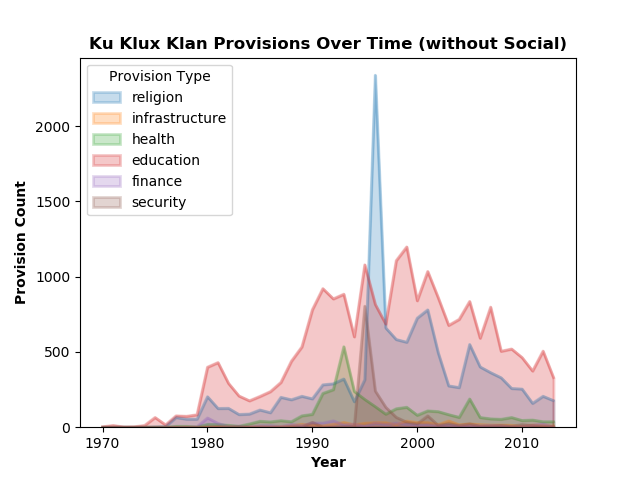
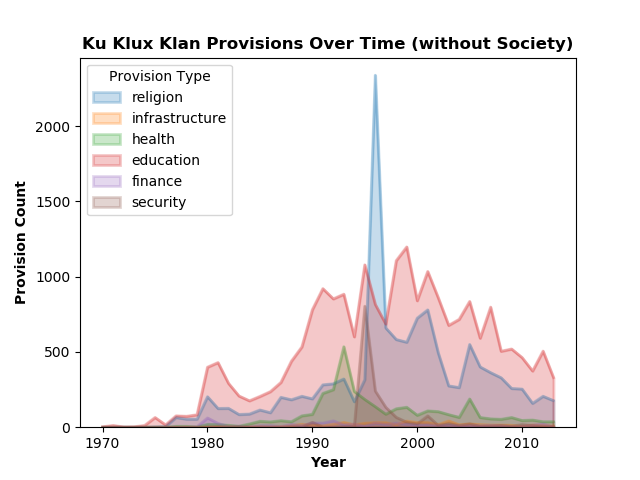
made formatting changes

Changed region(s): [[0.125, 0.0625, 0.9062, 0.125]]

diff --git a/FinalCode.py b/FinalCode.py
@@ -102,9 +102,7 @@ def count_countries(df):
     Counting the number of country instances, across years
     df: original pandas df
     '''
-    # print('Doing it')
     df_base_count = df['year'].groupby(df['base']).count()
-    # print(df_base_count.head())
     df_base_count = df_base_count.reset_index()
     df_base_count.rename(columns ={'year':'count'}, inplace = True)
     df_base_count.rename(columns ={'base':'name'}, inplace = True)
@@ -227,13 +225,10 @@ def multi_line_plot(df_sum_list, legend_list, title, xlab, ylab, save_bool, plot
         line.set_label(item)
     plt.legend(title=legend_title, loc='upper left')
     plt.title(title, weight='bold')
-    if xrestrict_lower > 0 & xrestrict_upper > 0:
+    if xrestrict_upper > 0:
         plt.xlim(xrestrict_lower, xrestrict_upper)
     if yrestrict_upper > 0:
         plt.ylim(0, yrestrict_upper)
-    # if save_as == 'Ku Klux Klan Provisions Over Time':
-    # if ylim == 1:
-    #     plt.ylim(0,20000)
     plt.xlabel(xlab, weight='bold')
     plt.ylabel(ylab, weight='bold')
     if save_bool == 1:
@@ -256,7 +251,7 @@ if __name__ == '__main__':
     # print(prov_over_time(1,1))
     # print(make_pie(1,0))
     # print(make_world(1,0))
-    print(clean_then_plot_heatmap(df))
+    # print(clean_then_plot_heatmap(df))
     # print(US_groups(df))
 
     '''Plotting three line graphs in one space'''
@@ -277,5 +272,6 @@ if __name__ == '__main__':
 
     '''Plot without Society'''
     make_sums_mult_vars_no_soc = sum_mult_vars(make_separate_dfs, 'year', prov_list_no_soc)
-    # print(multi_line_plot(make_sums_mult_vars_no_soc, prov_list_no_soc, 'Ku Klux Klan Provisions Over Time (without Social)', 'Year', 'Provision Count', 1, 0, 'KKK_prov_type_over_time_no_soc', 'Provision Type'))
-    # print(multi_line_plot(make_sums_mult_vars_no_soc, prov_list_no_soc, 'Ku Klux Klan Provisions During the 1990s (without Social)', 'Year', 'Provision Count', 1, 0, 'KKK_prov_type_over_time_no_soc_90s', 'Provision Type', 1990, 1999, 0, 0))
+    # print(multi_line_plot(make_sums_mult_vars_no_soc, prov_list_no_soc, 'Ku Klux Klan Provisions Over Time (without Society)', 'Year', 'Provision Count', 1, 0, 'KKK_prov_type_over_time_no_soc', 'Provision Type'))
+    print(multi_line_plot(make_sums_mult_vars_no_soc, prov_list_no_soc, 'Ku Klux Klan Provisions During the 1990s (without Society)', 'Year', 'Provision Count', 1, 0, 'KKK_prov_type_over_time_no_soc_90s', 'Provision Type', xrestrict_lower=1990, xrestrict_upper=1999, yrestrict_upper=0))
+    # def multi_line_plot(df_sum_list, legend_list, title, xlab, ylab, save_bool, plot_bool, save_as, legend_title, xrestrict_lower=0, xrestrict_upper=0, yrestrict_upper=0):  ### May need to add save_as = 0 , plot_bool = 0 to make sure you dont get an error

diff --git a/README.md b/README.md
@@ -3,29 +3,32 @@
 
 
 ## Background
-One Earth Future(OEF) is non-profit in Broomfield, CO, whose mission is to foster sustainable peace by building effective networks and resilient societies in fragile and post-conflict environments around the world. OEF has a research department aiming to produce actionable, empirical research that speaks to how a world without war can be achieved. One line of research at OEF focuses on the role of **terrorist and insurgent groups** (heretofore referred to as **“non-state actors"**) in times of conflict. In particular, OEF studies non-state actors’ use of social services during times of conflict. According to OEF researchers, non-violent activities of violent groups are correlated with many important outcomes and enahnce our understanding of the internal functions of terrorist organizations. For instance, some violent groups seek legitimacy and international support through service provision.
+
+![OEF](OEF.jpg) ![OEFR](OEFR.jpg)
+
+
+One Earth Future(OEF) is non-profit in Broomfield, CO, whose mission is to foster sustainable peace by building effective networks and resilient societies in fragile and post-conflict environments around the world. OEF has a research department (OEF Research) aiming to produce actionable, empirical research that speaks to how a world without war can be achieved. One line of research at OEF focuses on the role of terrorist and insurgent groups (heretofore referred to as “non-state actors") in times of conflict. In particular, OEF studies non-state actors’ use of social services during times of conflict. According to OEF researchers, non-violent activities of violent groups are correlated with many important outcomes and enhance our understanding of the internal functions of terrorist organizations. For instance, some violent groups seek legitimacy and international support through service provision (see Heger & Jung, 2017).
 
 ## Data Description
-For this project, I used OEF’s Terrorist and Insurgent Organizations’ Service Provision across time (TIOS 2.0) dataset for this project. The TIOS 2.0 dataset provides indicators associated with whether and how more than 400 violent non-state actors provide public goods and services across more than four decades (1969–2013). The underlying motivating assumption is that service-providing groups will have, on average, more stories mentioning service provision compared with groups that provide fewer or no services. To the best of OEF’s knowledge, this represents the widest coverage across both time and groups for this type of data.
+For this project, I used OEF’s Terrorist and Insurgent Organizations’ Service Provision across time (TIOS 2.0) dataset for this project (for more information, see Heger, Jung, and Wagstaff, 2018). The TIOS 2.0 dataset provides indicators associated with whether and how more than 400 violent non-state actors provide public goods and services across more than four decades (1969–2013). Accoring to OEF researchers, an underlying assumption of these data is that service-providing groups will have, on average, more stories mentioning service provision compared with groups that provide fewer or no services (Heger & Jung, 2017). To the best of OEF’s knowledge, this dataset represents the widest coverage across both time and groups for this type of data.
 
-Data were collected from a predetermined list of approximately 400 non-state groups (detailed in Cronin, 2011). **Data were pulled from all English language print news coverage available on LexisNexis.** As of 2006, LexisNexis has the world's largest electronic database for legal and public-records related information. For each group in the sample, OEF searched within new stories for words and phrases that correlate with service provision (see Describing the Data for details).
+Data were collected from a predetermined list of approximately 400 non-state groups (detailed in Cronin, 2011). Data were pulled from all English language print news coverage available on LexisNexis. As of 2006, LexisNexis has the world's largest electronic database for legal and public-records related information. For each group in the sample, OEF searched within new stories for words and phrases that correlate with service provision (see Describing the Data for details).
 
 #### **From the TIOS 2.0 codebook:**
 
-_"**Each observation in the dataset is a group-year.** There are, broadly speaking, four sets of variables. The first are the raw counts of keywords. The values for these variables equal the number of times that keyword was mentioned in all of the .txt files for that group-year. The second set of variables are manipulations of the raw counts. These variables include the combinations of the raw counts into sectors as well as taking the mean of all within-sector variables. These give a broader sense of the types of services each group provides each year. The third set of variables provide a sense of coverage using two metrics. The first of these is the word count for each group-year. The second is the article count for each group-year. The last set of variables includes the identifiers for each observation and includes variables suited to merging these data with other commonly used conflict datasets (described in Capstone 2 Goals section)."_
+_"Each observation in the dataset is a group-year. There are, broadly speaking, four sets of variables. The first are the raw counts of keywords. The values for these variables equal the number of times that keyword was mentioned in all of the .txt files for that group-year. The second set of variables are manipulations of the raw counts. These variables include the combinations of the raw counts into sectors as well as taking the mean of all within-sector variables. These give a broader sense of the types of services each group provides each year. The third set of variables provide a sense of coverage using two metrics. The first of these is the word count for each group-year. The second is the article count for each group-year. The last set of variables includes the identifiers for each observation and includes variables suited to merging these data with other commonly used conflict datasets."_
 
-## Goals
-+ Explore the data, with an eye toward future potential research questions that will use inferential statistics/model testing. This will be accomplished via merging with other datasets (there are identifiers in the dataset).
+## Capstone1 Goals
 + Enhance my visualization skills.
++ Explore the TIOS 2.0 data, with an eye toward future potential research questions that will use inferential statistics/model testing. This could be accomplished by merging the TIOS 2.0 with other datasets (e.g., the Global Terrorism Database).
 
-## Describing the data
-N = 6659
+## Describing the Data
+N = 6659 group-years
 
 Exploration consisted of a few key factors:
 + **Time** (1969-2013)
 + **Groups** (e.g., Taliban, Ku Klux Klan)
-  * Groups within the U.S.
-+ **Base** (country in which group is based)
++ **Base** (country in which group is located)
 + **Provisions** (types and counts):
   + Religion: church, mosque
   + Infrastructure: reconstruction, trash
@@ -36,27 +39,29 @@ Exploration consisted of a few key factors:
   + Society: cultural, sport
 
 ## Data Visualization
-I created an area graph of group prevalence over time. This graph represents a count of unique organization names in the dataset for each year (see Figure 1).
+I first created an area graph of group prevalence over time. Figure 1 represents a count of unique organization names in the dataset for each year.
 
-#### **Figure 1**
 ![Pervasiveness_over_time](Pervasiveness_over_time.png)
 
-I also created an area graph of provisions rendered over time; this is a count of the total number of provisions documented in the dataset for each year (see Figure 2).
+**Figure 1**. The number of unique organization names in the dataset, over time.
 
-#### **Figure 2**
+I also created an area graph of provisions rendered over time. Figure 2 provides a count of the total number of provisions documented in the dataset for each year.
+
 ![Provisions over time](/Provisions_over_time.png)
+
+**Figure 2**. The number of provisions in the dataset, over time.
+
 
 <!-- + A plot of these on the same graph reveals they their range is very different (prev max is 250, prov max is 2000000 [mil], see Provision_Type_over_time). Because social provisions were on much larger range than the rest of the provisions, I created a line graph of provisions by type over time, omitting social provisions. This graph represents a count of the number of specific provisions in the dataset for each year, omitting social provisions. (see Provision_Type_over_time_noSoc) -->
 Next, I created a pie graph of the count of each type of provision in the dataset, collapsed across year. As seen in Figure 3, social provisions are by far the most popular provisions.
 
-#### **Figure 3**
 ![Pie provisions](Pie_prov.png)
 
-I also explored data on the country that is the base for each non-state actor with the goal of producing a heat-map. I used GeoPandas to create a heatmap of the number of times non-state actors provided services, across time.
+**Figure 3**. Type and relative amount of provisions in the dataset, collapsed across time.
 
-To do this, one uses the GeoPandas built-in 'world' dataset, which contains country names, geometric shapes of those countries, and spatial location of those shapes on the world map. See Table 1 for the first five rows of the built-in dataset.
+Next, I explored data on the base country for each non-state actor with the goal of producing a heat-map. I used GeoPandas to create a heatmap of the number of times non-state actors provided services, collapsed across time. To do this, I used the GeoPandas built-in 'world' dataframe, which contains country names, geometric shapes of those countries, and spatial location of those shapes on the world map. See Table 1 for the first five rows of the built-in world dataframe.
 
-#### **Table 1**
+
 
 | pop_est  | continent     | name                 | iso_a3 | gdp_md_est | geometry                                                     |
 |----------|---------------|----------------------|--------|------------|--------------------------------------------------------------|
@@ -66,20 +71,23 @@ To do this, one uses the GeoPandas built-in 'world' dataset, which contains coun
 | 4798491  | Asia          | United Arab Emirates | ARE    | 184300     | POLYGON ((51.57951867046327 24.24549713795111,...))          |
 | 40913584 | South America | Argentina            | ARG    | 573900     | MULTIPOLYGON (((-65.50000000000003 -55.19999999999996,...))) |
 
-Using this dataset, GeoPandas builds a template that can then apply to their own data (see Figure 4 for template).
+**Table 1**. The first five rows of the GeoPands built-in "world" dataframe.
 
-#### **Figure 4**
+Using the world dataframe, GeoPandas builds a template that can then apply to their own data (see Figure 4 for template).
+
 ![World](World.png)
 
-To work with this template, one merges their own pandas dataframe into the built-in dataset, matching on a common variable. In my case, I matched on country name and merged a column of data containing the count of the total number of times non-state actors provided services (i.e., aggregated across year). See Figure 5 for the resulting heatmap, which is the prevalence of non-state actors' services over the past 45 years.
+**Figure 4**. World template using GeoPandas built-in "world" dataframe.
 
-#### **Figure 5**
+To work with this template, I merged my pandas dataframe with the world dataframe, matching on country name. My dataframe contained the count of the total number of times non-state actors provided services, aggregated across year, into the TIOS 2.0 dataframe. See Figure 5 for the resulting heatmap, which represents the prevalence of non-state actors' services over the past 45 years.
+
 ![heatmap](Heatmap.png)
 
-I noticed a lot of "heat" in the U.S., so I explored the prevalence of groups in the U.S. and their provision rate. Table 2 displays a count of U.S. non-state actors over time; here, n = 45 indicates a group has provided services for each year in the dataset (i.e., 45 years).
+**Figure 5**. Heatmap displaying the number of unique groups in each country, summed over time. Heat is displayed in quadrants.
+
+I noticed a lot of "heat" in the U.S., so I explored the prevalence of groups in the U.S. and their provision rate. Table 2 displays a count of U.S. non-state actors over time. N = 45 indicates a group has provided services for each year in the dataset (i.e., 45 years).
 
 
-#### **Table 2**
 <!-- ![UG_group_list](UG_group_list.jpg) -->
 
 | Groups in the United States                     | N Years |
@@ -107,31 +115,37 @@ I noticed a lot of "heat" in the U.S., so I explored the prevalence of groups in
 | Black Revolutionary Assault Team                | 1       |
 | Independent Armed Revolutionary Movement (MIRA) | 1       |    
 
+**Table 2**. A count of the number of years groups in the U.S.
 
-I explored the top three U.S. groups (by occurance rate over time):
-* KKK
+
+Next, I explored data on the top three U.S. groups see in Table 2:
 * Jewish Defense League
+* Ku Klux Klan
 * Black Panthers
 
 Figure 6 shows a count of the number of articles in which groups were mentioned over time.
 
-#### **Figure 6**
 ![US article count over time](USgroup_art_count_over_time.png)
 
-Given that the KKK is the most prevalent group in the U.S., I explored their provision rate by type, and over time. I saw social provisions were by far the most prevalent for each group (see Figure 7).
+**Figure 6**. A count of the number of articles for each U.S. group.
 
-#### **Figure 7**
+Given that the Ku Klux Klan is the most prevalent group in the U.S., I explored their provision rate by type, over time. As seen in Figure 7, social provisions were by far the most prevalent for each group.
+
 ![Provision_Type_over_time_KKK](KKK_prov_type_over_time.png)
 
-So, I re-plotted the figure, omitting social provisions (see Figure 8).
+**Figure 7**. Provisions provided by the Ku Klux Klan by type over time.
 
-#### **Figure 8**
+To take a closer look at the prevalence of non-social provisions for the Ku Klux Klan, I re-plotted Figure 7, this time omitting social provisions.
+
 ![Provision_Type_over_time_KKK_noSoc](KKK_prov_type_over_time_no_soc.png)
+
+**Figure 8**. Provisions provided by the Ku Klux Klan by type over time, omitting society provisions.
 
 I noticed a spike in religious provisions for the KKK in the 90s, so I zoomed in on that (see Figure 9).
 
-#### **Figure 9**
 ![KKK in the 90s](KKK_prov_type_over_time_no_soc_90s.png)
+
+**Figure 9**. Provisions provided by the Ku Klux Klan by type during the 1990's, omitting society provisions.
 
 What's going on around 1996?
 + 1996: Election year
@@ -141,13 +155,17 @@ What's going on around 1996?
 
 
 ## Future Directions
-These data are interesting, but they would be even more compelling if I could use them to make predictive models. To that end, I plan to merge these data with another dataset(s) so that provision prevalence and type could be treated as predictors. This type of analysis could address questions like: _Do provisions increase group membership? Do provisions increase public favor/perceptions of legitimacy? If so, which provisions are most influential?_
+These data are interesting, but they would be even more compelling if I could use them to make predictive models. One way to do this would be to merge the TIOS 2.0 data with another dataset(s) so that provision prevalence and type could be treated as predictors. This type of analysis could address questions like: _Do provisions increase group membership? Do provisions increase public favor/perceptions of legitimacy? If so, which provisions are most influential?_
 
-Another interesting element of this project focuses on domestic forms of terrorism. To continue this line of inquiry, I plan to work with the Global Terrorism Database (GTD), which is an open-source database including information on terrorist events around the world from 1970 through 2017. The GTD has the following characteristics:
+Another interesting element of this project focuses on domestic forms of terrorism. To continue this line of inquiry, I plan to work with the Global Terrorism Database (GTD), which is an open-source database that provides information on terrorist events around the world from 1970 through 2017. The GTD has the following characteristics:
 + Contains information on over 180,000 terrorist attacks, from 1970-2017
 + More than 4,000,000 news articles and 25,000 news sources were reviewed to collect incident data from 1998 to 2017 alone
 + Includes information on at least 45 variables for each case, with more recent incidents including information on more than 120 variables
   + Target Type, Perpetrator, Attack Type, Weapon Type
 
-#### References
-Cronin, A. K. (2011) How Terrorism Ends: Understanding the Decline and Demise of Terrorist Campaigns. Princeton, NJ: Princeton University Press.
+## References
+Cronin, A. K. (2011) _How Terrorism Ends: Understanding the Decline and Demise of Terrorist Campaigns._ Princeton, NJ: Princeton University Press.
+
+Heger, Lindsay L. and Danielle F. Jung (2015) Negotiating with rebels: The effect of rebel service provision on conflict negotiations. _Journal of Conflict Resolution, 61,_ 1203-1229.
+
+Heger, L. L., Jung, D. F., & Wagstaff, W. A. (2018) _Longitudinal indicators of service provisions by terrorist and insurgent oranizations._ One Earth Future Research, Broomfield, CO.
